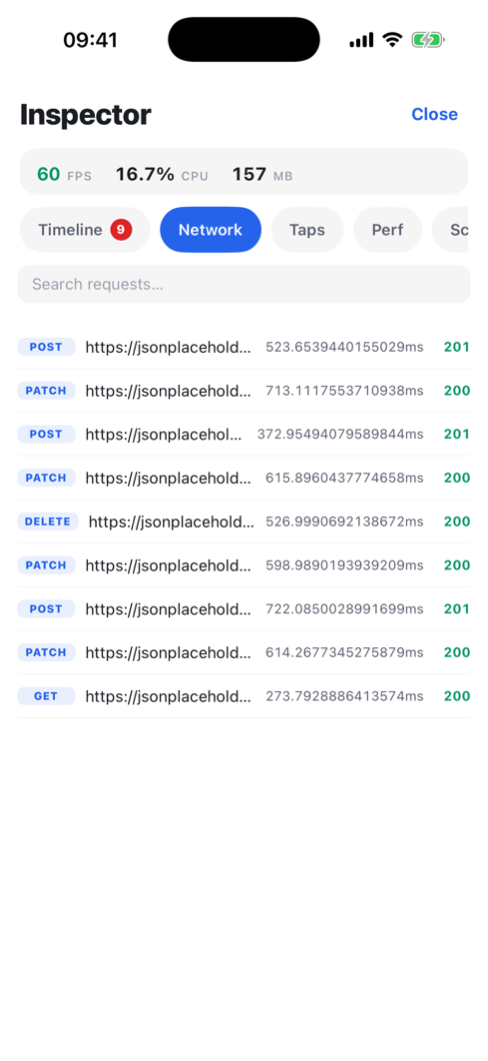
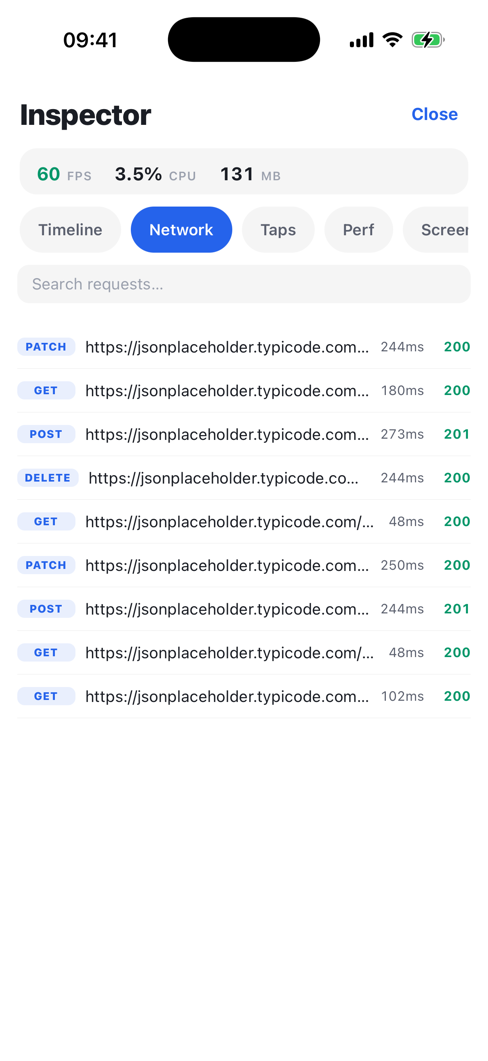
Document what 0.3.0 added
The README still described 0.2.x. Two of its claims had become wrong rather
than merely incomplete: per-component render statistics and slow-render
events do not exist in a release build, which is exactly the build the README
tells you to ship the panel in.

Adds sections on network capture (bodies, headers, what is redacted, and the
warning that the rest of the traffic is shown in full) and on release builds
(what works, what does not, and why the import has to come first in the entry
file). Notes the New Architecture and the minimum React Native versions.

The network screenshot was taken before durations were rounded and showed
13 decimal places; re-shot, plus a new one of a request detail with its
secrets redacted.

diff --git a/README.md b/README.md
@@ -22,9 +22,13 @@ npm install react-native-app-inspector
 cd ios && pod install        # native FPS/CPU/RSS + network capture (optional)
 ```
 
-`react` and `react-native` are the only peer deps. The native module autolinks;
-without a rebuild everything still works in JS — you just lose the native
-metrics.
+`react` and `react-native` are the only peer deps (`react-native >= 0.72`).
+The native module autolinks; without a rebuild everything still works in JS —
+you just lose the native metrics.
+
+It is a **TurboModule** on the New Architecture and a normal native module on
+the legacy bridge, so it works either way with no configuration. The New
+Architecture path needs `react-native >= 0.74`.
 
 ## Quick start
 
@@ -53,10 +57,10 @@ badge** floats over the app, and tapping it opens the panel.
 | Tab | What it shows |
 |---|---|
 | **Timeline** | Time-ordered log of actions, navigation, renders, network, FPS drops, memory and errors. Tap an FPS drop → **cause correlation** tells you what likely caused it. |
-| **Network** | Every request with method, status, duration. Captured **natively** (NSURLProtocol / OkHttp interceptor) when the native module is installed, XHR patch otherwise. |
+| **Network** | Every request with method, status, duration, **bodies and headers**, and a copyable cURL. Captured **natively** (NSURLProtocol / OkHttp interceptor) when the native module is installed, XHR patch otherwise. Secrets are [redacted](#network-capture). |
 | **Taps** | Tap→response latency for **every pressable**, automatically — labels from `testID` / text, timing from the native touch timestamp to the next presented frame. RAIL-coded: <100 ms good, >300 ms sluggish. |
-| **Perf** | Live JS & UI-thread FPS, CPU, RSS memory, JS heap, jank — plus per-component render stats (count, avg, worst). |
-| **Screens** | Per-screen score **0–100** with the concrete problems: slow load, FPS drops, slow renders, memory growth, slow requests, slow taps. |
+| **Perf** | Live JS & UI-thread FPS, CPU, RSS memory, JS heap, jank — plus per-component render stats (count, avg, worst) in development builds. |
+| **Screens** | Per-screen score **0–100** with the concrete problems: slow load, FPS drops, slow renders (development builds), memory growth, slow requests, slow taps. |
 | **Storage** | Key/value browser for AsyncStorage / MMKV / anything: search, pretty-printed JSON, edit, delete, clear. |
 | **Startup** | Time-to-interactive and custom marks (`AppInspector.mark('cache-ready')`). |
 | **Settings** | Pause live updates, share the session (native share sheet), clear, hide the badge. |
@@ -81,9 +85,72 @@ All props are optional:
   autoCaptureTaps={true}
   profileRoot={true}           // root render profiler (id "App")
   modules={{ network: true, errors: true, performance: true, slowScreens: true }}
+  network={{ captureBodies: true, maxBodyBytes: 32768, captureHeaders: true }}
   maxEntries={500}             // ring-buffer size per feed
 />
 ```
+
+## Network capture
+
+Requests are captured with their bodies and headers, so the panel shows what
+actually went over the wire — and a cURL you can copy straight into a terminal.
+
+```tsx
+<InspectorRoot
+  network={{
+    captureBodies: true,       // request + response bodies
+    maxBodyBytes: 32768,       // larger bodies are truncated
+    captureHeaders: true,      // request + response headers
+  }}>
+```
+
+<div align="center">
+<img src="docs/screenshots/ios-network-detail.png" width="260" alt="A captured request with its secrets redacted">
+</div>
+
+**Secrets are replaced with `[redacted]`** before anything is stored, so they
+never reach the panel, the export or a persisted session:
+
+- header, body and query keys that name a secret — `password`, `token`,
+  `apiKey`, `authorization`, `cookie`, `signature`, `privateKey` and their
+  common variants, matched case- and separator-insensitively;
+- query parameters inside headers whose value is a URL (`Location`,
+  `Referer`), which servers often echo back complete with the key you sent.
+
+> **It is still your real traffic.** Anything not on that list — order
+> contents, e-mail addresses, whatever your API returns — is shown in full to
+> whoever holds the phone. That is the point of the tool, and the reason to
+> gate it behind `enabled={__DEV__}` or a staging-only flag rather than
+> shipping it to users. Set `network={{ captureBodies: false, captureHeaders:
+> false }}` if even that is too much.
+
+## Release builds
+
+The panel is meant for QA and staging builds, which are usually release
+builds, so it keeps working there — with one gap.
+
+Put the import first in your entry file:
+
+```js
+// index.js — before anything that pulls in React
+import 'react-native-app-inspector';
+import { AppRegistry } from 'react-native';
+```
+
+React only reports render commits to a profiler in development. In a release
+build the library gets that signal another way, and it has to be in place
+before React itself loads — hence the import position. Without it, tap timing
+falls back to measuring up to the next presented frame: close, but less exact.
+
+| In a release build | |
+|---|---|
+| Network, errors, actions, navigation, storage, export | work |
+| FPS, CPU, memory, JS heap, frozen frames, startup marks | work |
+| Tap → response latency, automatic | works |
+| Per-component render stats, slow-render events | **development only** |
+
+Render statistics need React's profiler timings, which production React does
+not produce at all.
 
 ## Recipes
 
@@ -144,6 +211,8 @@ done();
 ```
 
 Its commit count / avg / worst render times show up under Perf → Renders.
+In a release build there are no such timings — see
+[Release builds](#release-builds).
 </details>
 
 <details>
